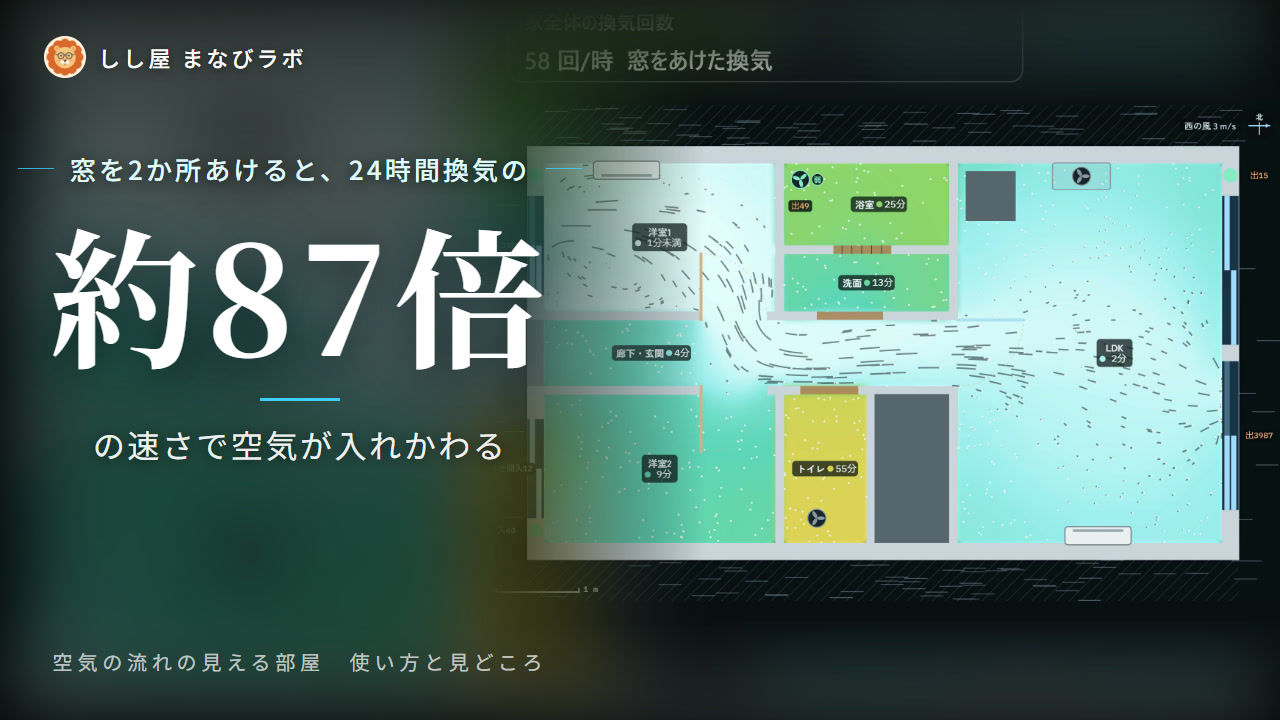
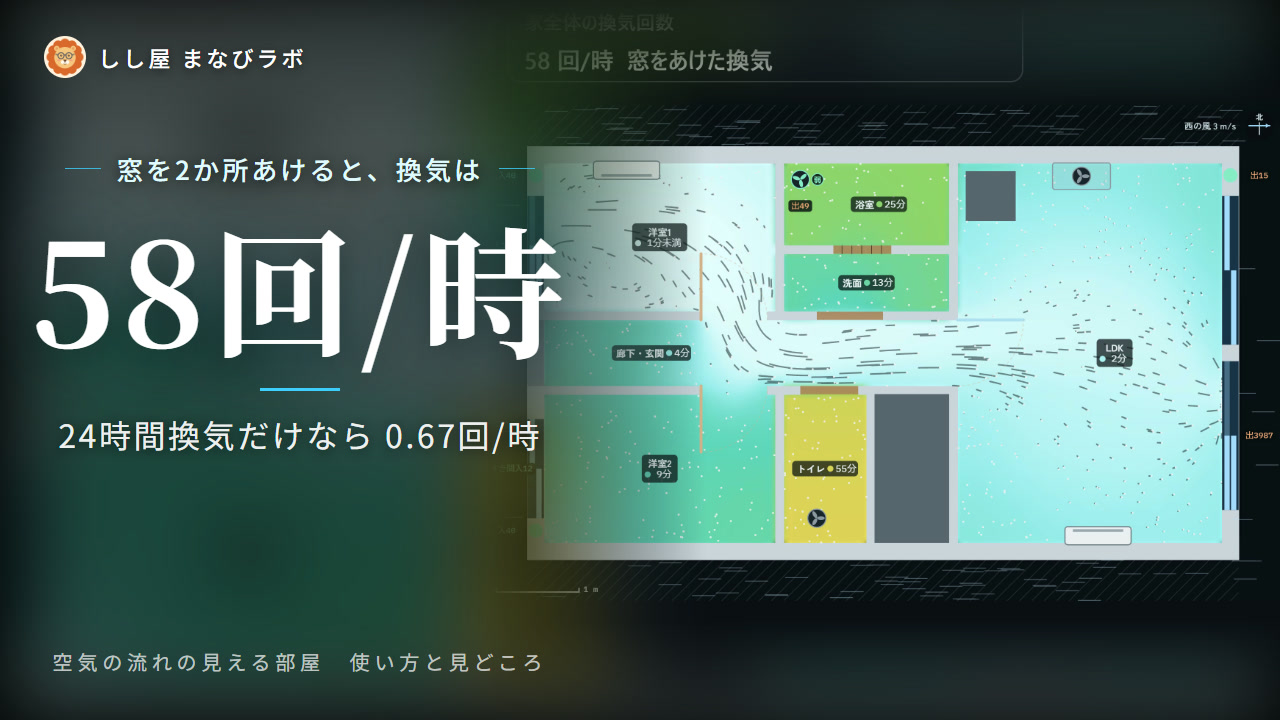
紹介動画: 空気の流れのサムネイルを「約87倍」から「58回/時（24時間換気だけなら 0.67回/時）」に（動画に出ている値そのまま）。ショートと説明動画の YouTube のサムネイルを付けなおした

Changed region(s): [[0.0312, 0.3056, 0.4375, 0.5194], [0.0312, 0.5194, 0.4375, 0.6417], [0.0312, 0.2139, 0.4062, 0.275]]

diff --git a/_dev/promo/short-thumbs.js b/_dev/promo/short-thumbs.js
@@ -10,7 +10,7 @@ window.SHORT_THUMBS = {
   'quantum':       { name: '量子の実験室', t: 17, focus: [0.5, 0.3], zoom: 1.6, kicker: '電子を1個ずつ飛ばすと', big: 'しま模様', sub: 'が現れる ― 二重スリット', c1: '#fff3a0', c2: '#ffc21e' },
   'metamorphosis': { name: 'さなぎの中で', t: 13, focus: [0.5, 0.36], zoom: 1.7, kicker: 'イモムシがガになるまで18日', big: 'さなぎの中', sub: 'はどうなってる？', c1: '#e0fbff', c2: '#43d3ff' },
   'immune-battle': { name: '免疫のたたかい', t: 21, focus: [0.5, 0.35], zoom: 1.6, kicker: 'インフルエンザのウイルスは3日目に', big: '数十億個', sub: 'それでも8日目ごろ消える', c1: '#ffe0ea', c2: '#ff5c8a' },
-  'air-flow':      { name: '空気の流れの見える部屋', t: 26, focus: [0.5, 0.41], zoom: 1.6, kicker: '窓を2か所あけると、24時間換気の', big: '約87倍', sub: 'の速さで空気が入れかわる', c1: '#e0fbff', c2: '#3fd0ff' },
+  'air-flow':      { name: '空気の流れの見える部屋', t: 26, focus: [0.5, 0.41], zoom: 1.6, kicker: '窓を2か所あけると、換気は', big: '58回/時', sub: '24時間換気だけなら 0.67回/時', c1: '#e0fbff', c2: '#3fd0ff' },
   'ga-creatures':  { name: '進化の箱庭', t: 26, focus: [0.64, 0.31], zoom: 3.6, kicker: 'でたらめな生きものが', big: '40世代', sub: 'で走り方を身につける', c1: '#e8ffe0', c2: '#5ee35e' },
   'god-view':      { name: '神の視点マップ', t: 12, focus: [0.5, 0.38], zoom: 1.5, wfocus: [0.5, 0.34], kicker: 'ホイールひとつで', big: '宇宙の果て', sub: 'からクォークまで', c1: '#e3f4ff', c2: '#5bb8ff' },
   'wifi-wave':     { name: '電波の見える部屋', t: 29, focus: [0.3, 0.3], zoom: 1.9, kicker: 'WiFi の電波を見える化', big: '5 GHz', sub: 'は壁の向こうで弱くなる', c1: '#fff0d0', c2: '#ff9a2e' },
